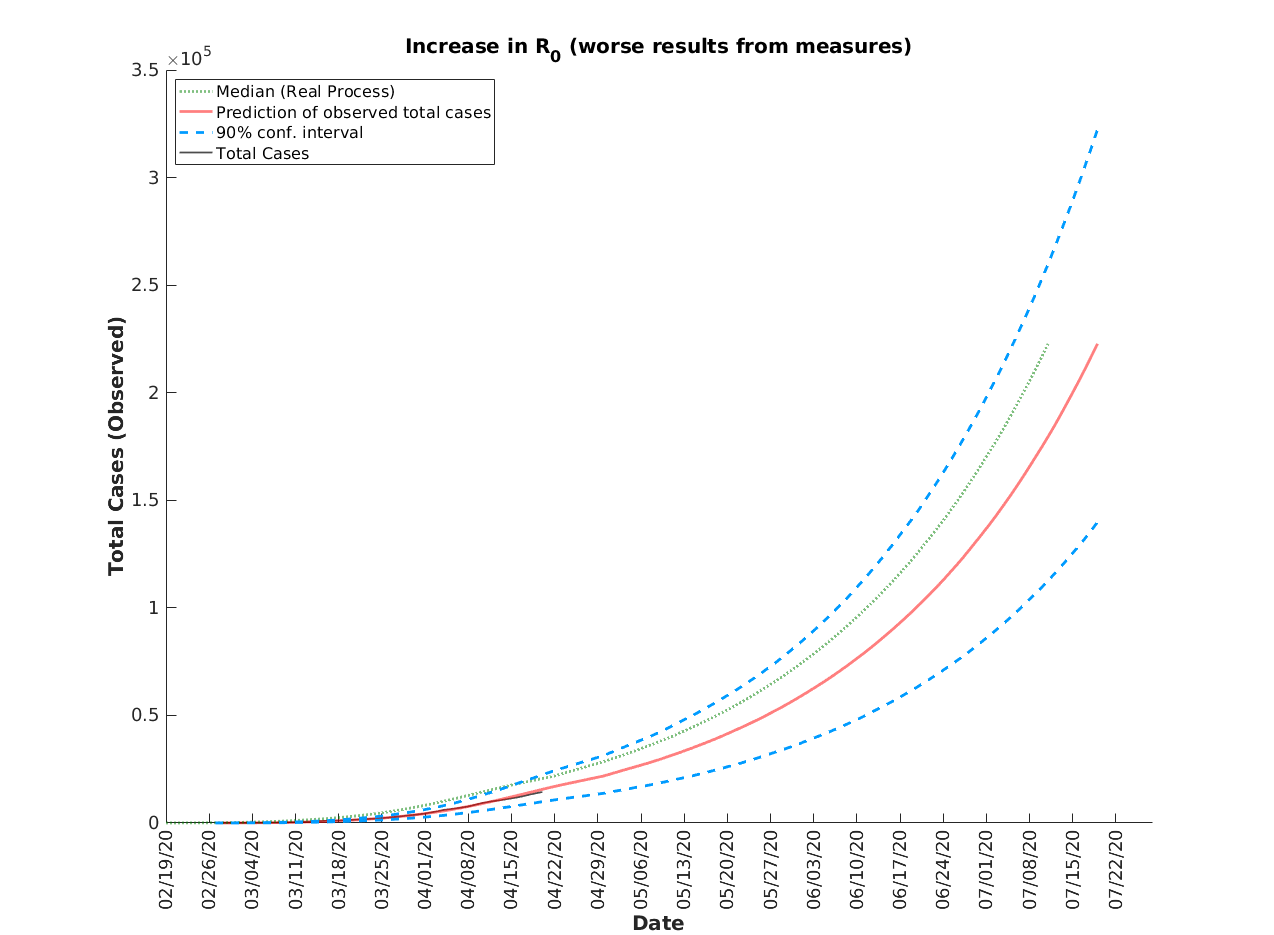
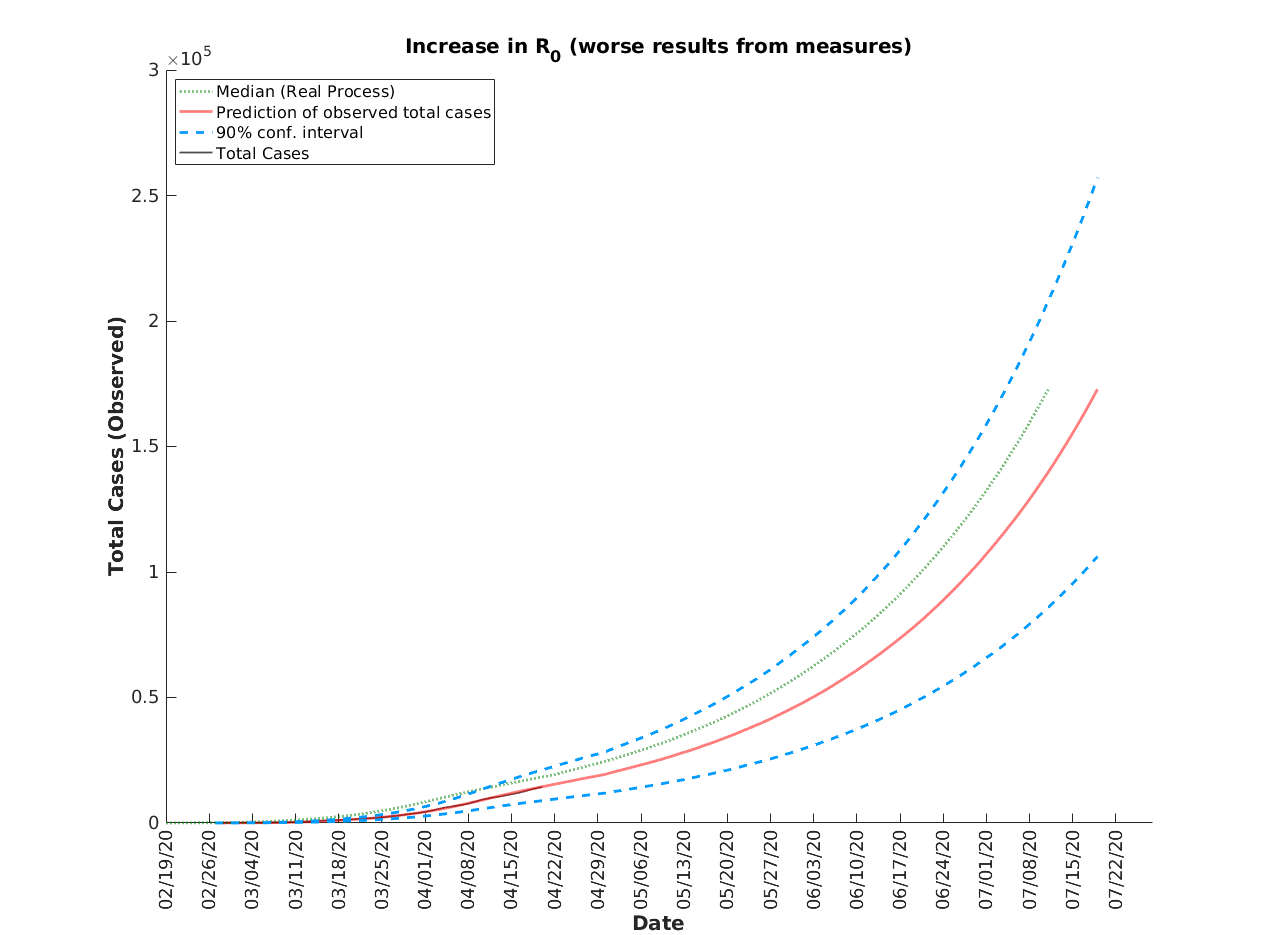
Add files via upload

diff --git a/COVID19 Models/Sweden/COVID19_Sweden.m b/COVID19 Models/Sweden/COVID19_Sweden.m
@@ -71,7 +71,7 @@ Z_0=@()(mnrnd(5, age_struct_prob)');
 % Expectation = k * theta = 9.63, Variance = k * theta^2 = 3.5707^2 => theta = 3.5707^2 / 9.63 = 1.3240, k = 9.63/1.3240 = 7.2734
 % Here we assume we have 2 periods of the epidemic - before the people started distancing themselves and after.
 % R0 is chosen to fit what happened already
-R0 = [linspace(7, 5.5, 19/h) linspace(5.5, 2.3, 13/h) linspace(2.3, 1.9, T/h+1-(24+7+25+horizon-detection_time)/h) linspace(1.9, 0.9, 19/h) linspace(0.9, 0.9, 5/h) ones(1,(horizon-detection_time)/h)*0.9];
+R0 = [linspace(7, 5.5, 19/h) linspace(5.5, 2.35, 13/h) linspace(2.35, 1.9, T/h+1-(24+7+25+horizon-detection_time)/h) linspace(1.9, 0.9, 12/h) linspace(0.9, 0.9, 7/h) linspace(0.9, 0.9, 5/h) ones(1,(horizon-detection_time)/h)*0.9];
 mu_covid_pdf=gampdf(0:h:omega, 7.2734, 1.3240)';
 mu_matrix=zeros(size(mu_covid_pdf,1), 1, T/h+1);
 mu_matrix(:,1,:)=R0.*repmat(mu_covid_pdf/(sum(mu_covid_pdf)*h),1, T/h+1);
@@ -94,7 +94,7 @@ buildPlots(NewCasesDaily, TotalCasesDaily, ActiveCasesDaily, newcases_hist, date
             'MainScenario', 'No change in R_0 (no change in measures)');
 
 %% OPTIMISTIC SCENARIO model of the Point process mu, Optimistic Scenario, R0 changes from 0.8 to 0.6, from now on
-R0 = [linspace(7, 5.5, 19/h) linspace(5.5, 2.3, 13/h) linspace(2.3, 1.9, T/h+1-(24+7+25+horizon-detection_time)/h) linspace(1.9, 0.9, 19/h) linspace(0.9, 0.9, 5/h) ones(1,(horizon-detection_time)/h)*0.7];
+R0 = [linspace(7, 5.5, 19/h) linspace(5.5, 2.35, 13/h) linspace(2.35, 1.9, T/h+1-(24+7+25+horizon-detection_time)/h) linspace(1.9, 0.9, 12/h) linspace(0.9, 0.9, 7/h) linspace(0.9, 0.9, 5/h) ones(1,(horizon-detection_time)/h)*0.7];
 mu_covid_pdf=gampdf(0:h:omega, 7.2734, 1.3240)';
 mu_matrix=zeros(size(mu_covid_pdf,1), 1, T/h+1);
 mu_matrix(:,1,:)=R0.*repmat(mu_covid_pdf/(sum(mu_covid_pdf)*h),1, T/h+1);
@@ -114,7 +114,7 @@ buildPlots(NewCasesDaily_optimistic, TotalCasesDaily_optimistic, ActiveCasesDail
             'OptimisticScenario', 'Decline in R_0 (better results from measures)');
 
 %% PESSIMISTIC SCENARIO model of the Point process mu, Pessimistic Scenario, R0 changes from 0.8 to 1.2, from now on
-R0 = [linspace(7, 5.5, 19/h) linspace(5.5, 2.3, 13/h) linspace(2.3, 1.9, T/h+1-(24+7+25+horizon-detection_time)/h) linspace(1.9, 0.9, 19/h) linspace(0.9, 0.9, 5/h) ones(1,(horizon-detection_time)/h)*1.3];
+R0 = [linspace(7, 5.5, 19/h) linspace(5.5, 2.35, 13/h) linspace(2.35, 1.9, T/h+1-(24+7+25+horizon-detection_time)/h) linspace(1.9, 0.9, 12/h) linspace(0.9, 0.9, 7/h) linspace(0.9, 0.9, 5/h) ones(1,(horizon-detection_time)/h)*1.3];
 mu_covid_pdf=gampdf(0:h:omega, 7.2734, 1.3240)';
 mu_matrix=zeros(size(mu_covid_pdf,1), 1, T/h+1);
 mu_matrix(:,1,:)=R0.*repmat(mu_covid_pdf/(sum(mu_covid_pdf)*h),1, T/h+1);
